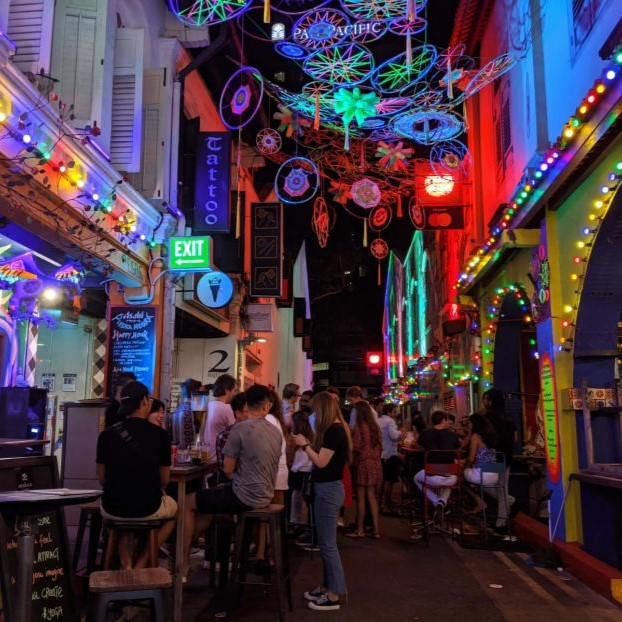
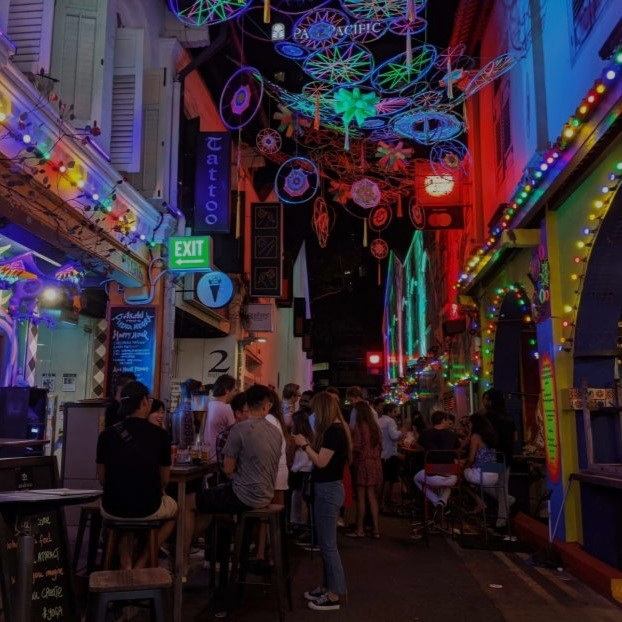
updates to discover page

diff --git a/src/views/Discover.vue b/src/views/Discover.vue
@@ -6,22 +6,28 @@
       </h1>
       <div class="row justify-content-center">
         <div class="landmark p-2 col-12 col-md-12 col-lg-8">
-          <img class="w-100" src="../assets/img/Landmark1.jpg" alt="Landmark1" />
-          <div class="description p-3 text-white fw-bolder">
-            <h2>GARDENS BY THE BAY</h2>
-          </div>
+          <a href="https://www.gardensbythebay.com.sg/" target="__blank">
+            <img class="w-100" src="../assets/img/Landmark1.jpg" alt="Landmark1" />
+            <div class="description p-3 text-white fw-bolder">
+              <h2>Gardens By The Bay</h2>
+            </div>
+          </a>
         </div>
         <div class="landmark p-2 col-12 col-md-6 col-lg-4">
-          <img class="w-100" src="../assets/img/Landmark2.jpg" alt="Landmark2" />
-          <div class="description p-3 text-white fw-bolder">
-            <h2>S.E.A AQUARIUM</h2>
-          </div>
+          <a href="https://www.rwsentosa.com/en/attractions/sea-aquarium" target="__blank">
+            <img class="w-100" src="../assets/img/Landmark2.jpg" alt="Landmark2" />
+            <div class="description p-3 text-white fw-bolder">
+              <h2>S.E.A Aquarium</h2>
+            </div>
+          </a>
         </div>
         <div class="landmark p-2 col-12 col-md-6 col-lg-4">
-          <img class="w-100" src="../assets/img/Landmark3.jpg" alt="Landmark3" />
-          <div class="description p-3 text-white fw-bolder">
-            <h2>HAJI LANE</h2>
-          </div>
+          <a href="https://visitkamponggelam.com.sg/street/haji-lane/" target="__blank">
+            <img class="w-100" src="../assets/img/Landmark3.jpg" alt="Landmark3" />
+            <div class="description p-3 text-white fw-bolder">
+              <h2>Haji Lane</h2>
+            </div>
+          </a>
         </div>
         <div class="p-2 col-12 col-md-12 col-lg-4">
           <div
@@ -35,22 +41,28 @@
           </div>
         </div>
         <div class="landmark p-2 col-12 col-md-6 col-lg-4">
-          <img class="w-100" src="../assets/img/Landmark4.jpg" alt="Landmark4" />
-          <div class="description p-3 text-white fw-bolder">
-            <h2>JEWEL CHANGI AIRPORT</h2>
-          </div>
+          <a href="https://www.jewelchangiairport.com/en.html" target="__blank">
+            <img class="w-100" src="../assets/img/Landmark4.jpg" alt="Landmark4" />
+            <div class="description p-3 text-white fw-bolder">
+              <h2>Jewel Changi Airport</h2>
+            </div>
+          </a>
         </div>
         <div class="landmark p-2 col-12 col-md-6 col-lg-4">
-          <img class="w-100" src="../assets/img/Landmark5.jpg" alt="Landmark5" />
-          <div class="description p-3 text-white fw-bolder">
-            <h2>MASJID SULTAN</h2>
-          </div>
+          <a href="https://sultanmosque.sg/" target="__blank">
+            <img class="w-100" src="../assets/img/Landmark5.jpg" alt="Landmark5" />
+            <div class="description p-3 text-white fw-bolder">
+              <h2>Masjid Sultan</h2>
+            </div>
+          </a>
         </div>
         <div class="landmark p-2 col-12 col-md-12 col-lg-8">
-          <img class="w-100" src="../assets/img/Landmark6.jpg" alt="Landmark6" />
-          <div class="description p-3 text-white fw-bolder">
-            <h2>MARINA BAY SANDS</h2>
-          </div>
+          <a href="https://www.marinabaysands.com/" target="__blank">
+            <img class="w-100" src="../assets/img/Landmark6.jpg" alt="Landmark6" />
+            <div class="description p-3 text-white fw-bolder">
+              <h2>Marina Bay Sands</h2>
+            </div>
+          </a>
         </div>
       </div>
     </div>
@@ -89,7 +101,7 @@ export default {
 
 .description {
   position: absolute;
-  background: rgba(255, 255, 255, 0) !important;
+  background: rgba(98, 96, 96, 0) !important;
   bottom: 0;
   right: 0;
   left: 0;

diff --git a/src/components/common/AboutCard.vue b/src/components/common/AboutCard.vue
@@ -2,7 +2,7 @@
   <div class="col">
     <div class="card w-100" style="border:none">
       <div class="card-body">
-        <i :class="icon" class="rounded-circle p-3" style="font-size:30px; background-color:#d6f4ff;"></i>
+        <i :class="icon" class="rounded-circle" style="font-size:30px; background-color:#d6f4ff; padding:10px"></i>
         <h5 class="card-title mt-3">{{ title }}</h5>
         <p class="card-text">{{ content }}</p>
       </div>
